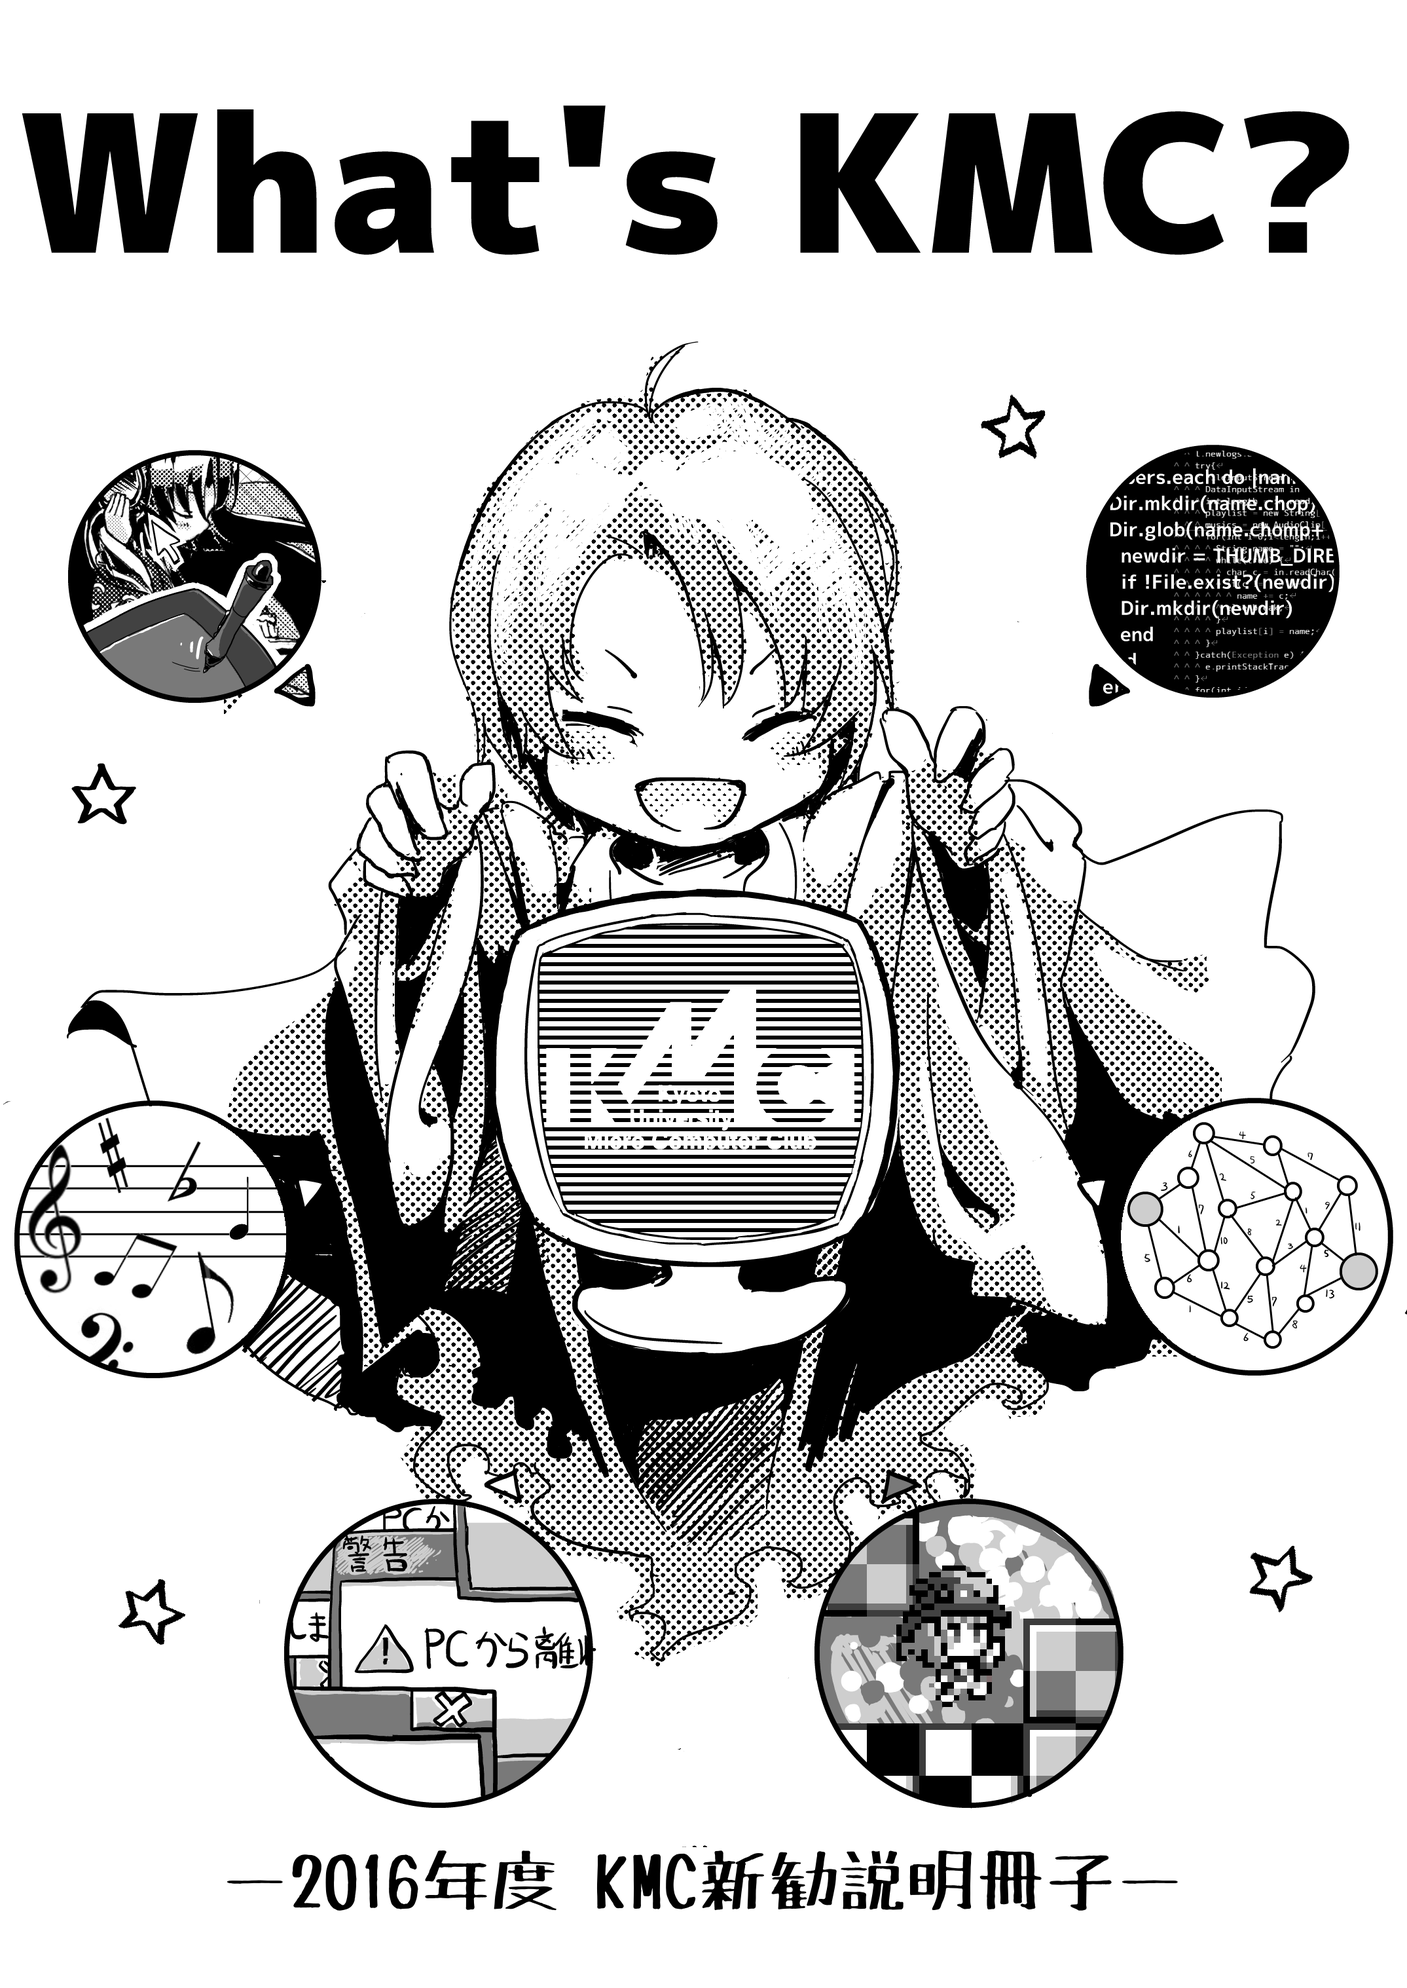
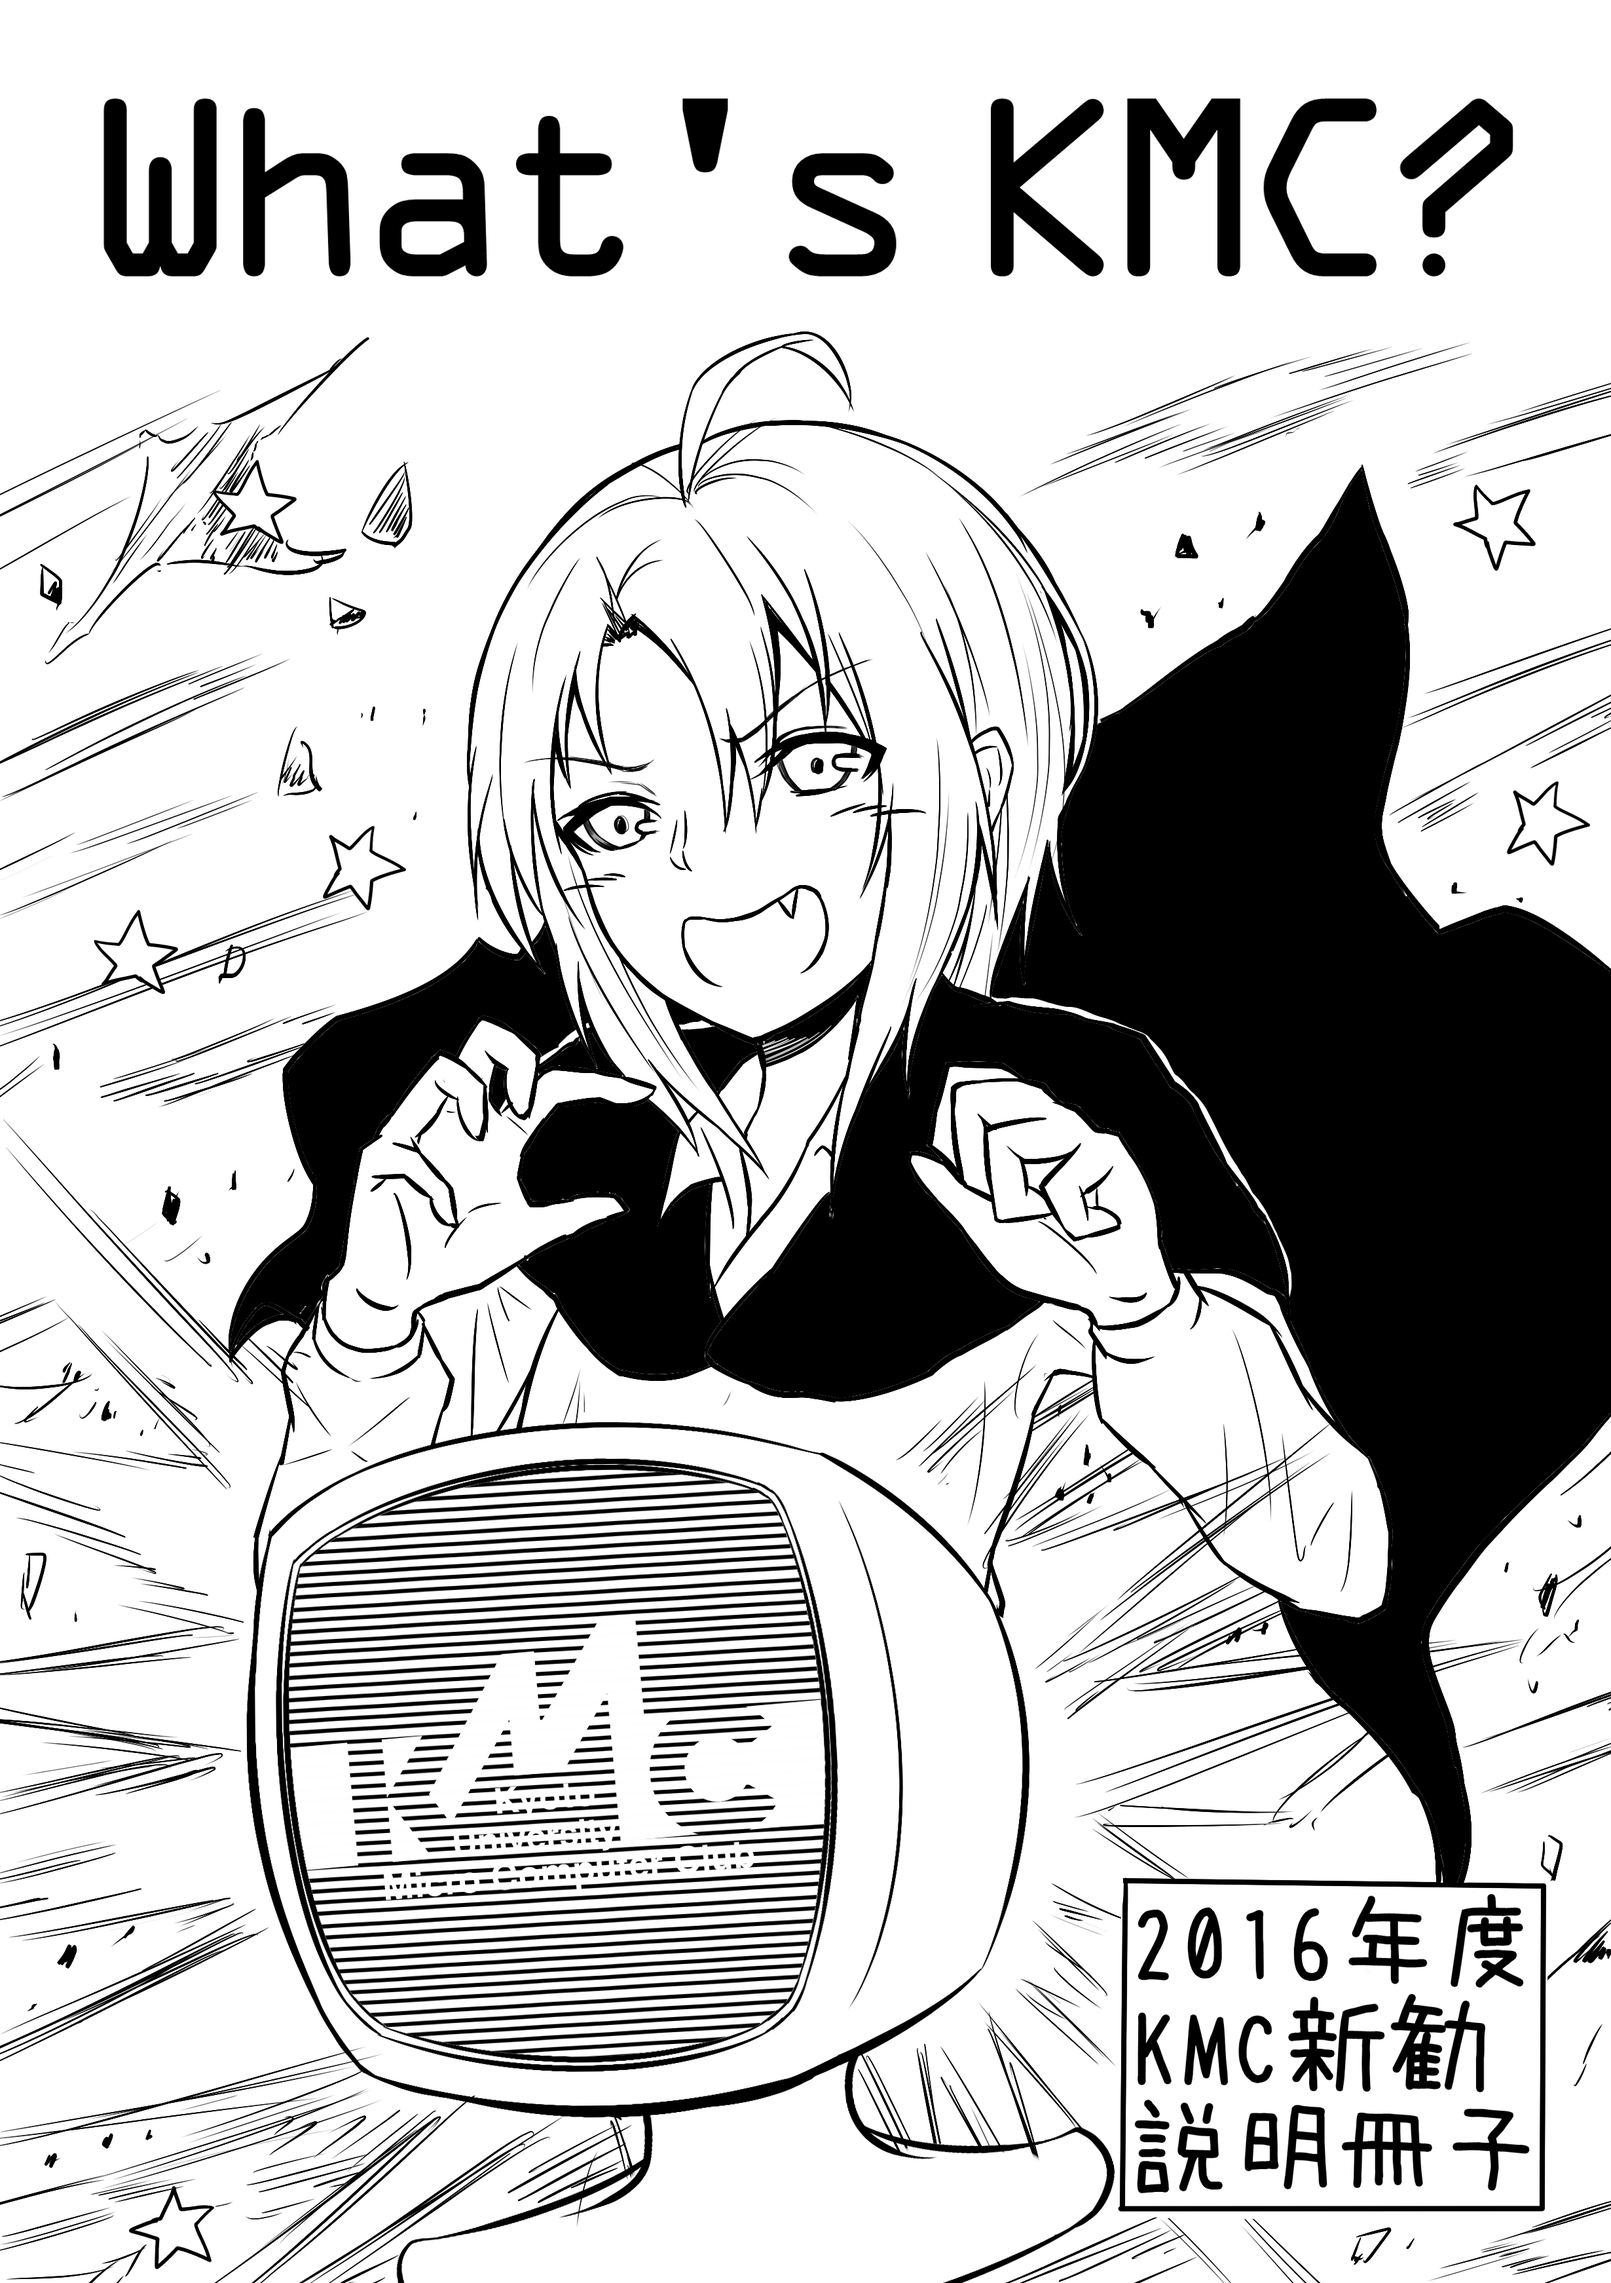
表紙画像を更新

diff --git a/md/backcover.md b/md/backcover.md
@@ -1,1 +1,9 @@
+\begin{titlepage}
+\ThisCenterWallPaper{0.95}{./image/backcover.png}
+\title{}
+\date{}
+\author{}
+\maketitle
+\thispagestyle{empty}
+\end{titlepage}
 %%
